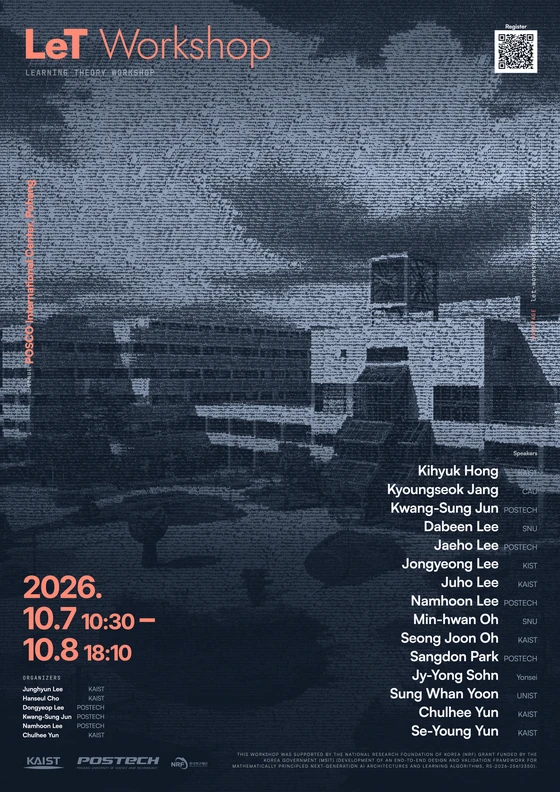
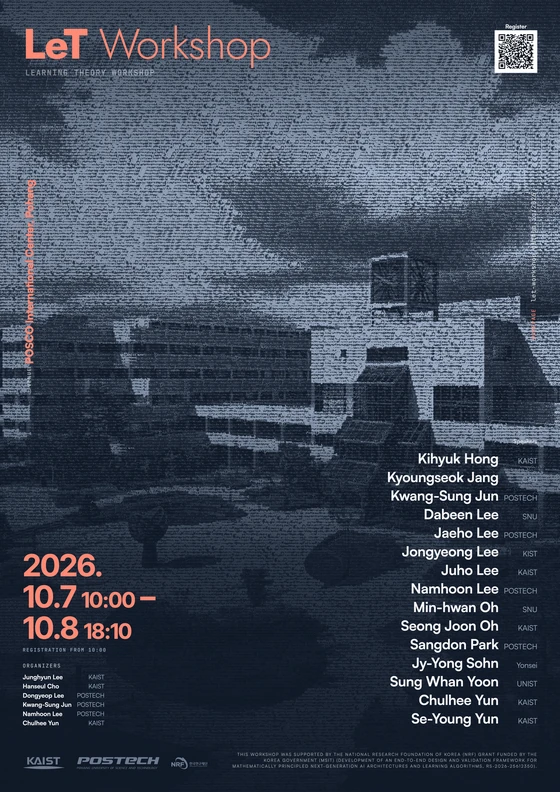
The registration button stops behaving like a dead one
Wrapping the live link in the waiting button's box gave it both of that box's
apologies: a not-allowed cursor over a link that works, and a width stretched
to whatever the note underneath happened to say — "Registration" came out as
wide as "Open until August 31" and read as a different, longer button.

It has a box of its own now. Same column, same note, but the button keeps its
own width and its own cursor: 100px against See speakers' 101, which is what it
was before the note existed. And the note is "Until August 31", which is what
the button needed it to be either way.

Changed region(s): [[0.6982, 0.5455, 0.9714, 0.9394], [0.0304, 0.697, 0.2732, 0.9394]]

diff --git a/templates/style.css b/templates/style.css
@@ -1005,10 +1005,20 @@ body {
 /* Registration has nowhere to go yet. Disabled rather than hidden, so the
    thing people are looking for is visibly coming — with the reason next to it,
    since a dead button with no explanation reads as broken. */
-.btn-wait {
+.btn-wait,
+.btn-note {
   display: inline-flex;
   flex-direction: column;
   gap: 6px;
+}
+/* The live one: the button keeps its own width. Stretched to the note's, as a
+   column flex child is by default, "Registration" came out as wide as "Until
+   August 31" and read as a different, longer button. */
+.btn-note {
+  align-items: flex-start;
+}
+.btn-note small {
+  padding-left: 2px;
 }
 /* Barely dimmed. A filled pill dropped much below this stops reading as coral
    at all — the accent sinks into the navy behind it and goes grey-brown — so
@@ -1029,7 +1039,8 @@ body {
   background: var(--hero-accent);
   color: #24160f;
 }
-.btn-wait small {
+.btn-wait small,
+.btn-note small {
   font-family: var(--mono);
   font-size: 0.64rem;
   letter-spacing: 0.14em;
@@ -1039,7 +1050,8 @@ body {
   /* The tracking is for a line of Latin capitals. Hangul is already spaced by
      its own squares, and at 0.14em "8월 31일까지" comes apart into syllables. */
 }
-.btn-wait small .t-ko {
+.btn-wait small .t-ko,
+.btn-note small .t-ko {
   letter-spacing: 0.01em;
 }
 
@@ -3848,11 +3860,17 @@ a.poster-shot:focus-visible {
     --meta-fact-weight: 700;
     --meta-mono-weight: 500;
     --meta-note-weight: 500;
-    /* Orange, not red. #c93a1c sits at hue 10 with the lightness a light
-     ground needs, and at that hue the darkness reads as blood rather than
-     as the coral the dark sheet uses. Walking the hue to 18 at the same
-     lightness keeps 3.5:1 against the pale blue and reads warm. */
-  --hero-accent: #c9501c;
+    /* The light sheet's accent, exactly. This was #c9501c — hue 18, walked
+       there because at hue 10 a colour this dark was reading as blood rather
+       than as the coral the dark sheet uses. That judgement was made when the
+       hero was the only pale thing on the page. The poster section now shows
+       the light sheet directly under it, and two oranges nine degrees apart at
+       the same lightness, seen together, read as a mismatch rather than as a
+       palette. So the page follows the sheet: hue 9.3, the dark sheet's own,
+       with the saturation up and the value down. It costs 3.46:1 against the
+       pale blue for 3.25:1, which is still over the 3:1 the large type it sets
+       is held to. See SCHEMES["light"] in tools/poster.py. */
+  --hero-accent: #db472c;
     --hero-art-ink: #16324f;
     --logo-plate: rgba(255, 255, 255, 0.78);
     --logo-plate: rgba(255, 255, 255, 0.78);
@@ -3942,11 +3960,12 @@ a.poster-shot:focus-visible {
   --meta-fact-weight: 700;
   --meta-mono-weight: 500;
   --meta-note-weight: 500;
-  /* Orange, not red. #c93a1c sits at hue 10 with the lightness a light
-     ground needs, and at that hue the darkness reads as blood rather than
-     as the coral the dark sheet uses. Walking the hue to 18 at the same
-     lightness keeps 3.5:1 against the pale blue and reads warm. */
-  --hero-accent: #c9501c;
+  /* The light sheet's accent — see the note on the same variable in the
+     prefers-color-scheme: light block. Both copies or neither: this one is
+     what the explicit toggle uses and that one is what Auto uses, and a
+     value changed in one of them is a page that turns a different colour
+     depending on how it was asked to. */
+  --hero-accent: #db472c;
   --hero-art-ink: #16324f;
   --logo-plate: rgba(255, 255, 255, 0.78);
   /* The same plate the drawing is filled with, not a second toning

diff --git a/tools/poster.py b/tools/poster.py
@@ -953,6 +953,17 @@ FESTIVAL = """<!doctype html>
     font-family:inherit; font-size:16mm; font-weight:700;
     letter-spacing:-.03em; color:inherit; margin-left:4mm;
   }}
+  /* What the first hour in the stack is. The stack gives a span — 10:00 to
+     18:10 across two days — and a span's opening figure reads as the edge of a
+     range rather than as an instruction to be somewhere. This says which it
+     is, in the mono the sheet names its fields with, so the number above it
+     stops being one end of a bracket. It comes from the programme's first
+     event, so it cannot drift from it. */
+  .opens {{
+    font-family:"JetBrains Mono",monospace; font-size:3.6mm; font-weight:500;
+    letter-spacing:.16em; text-transform:uppercase; color:{cool};
+    margin:2.5mm 0 0;
+  }}
   /* The venue lives in the rail; the country is the one thing neither the rail
      nor the stack says, so it goes with the day. */
   .datesub {{ display:none; }}
@@ -973,8 +984,13 @@ FESTIVAL = """<!doctype html>
   .r {{ text-align:right; }}
   .marks {{ display:flex; align-items:flex-end; gap:9mm; }}
   .marks img {{ height:9mm; width:auto; display:block; opacity:.72; }}
+  /* The marks and the grant sit under both columns, and 9mm under a list set
+     at 5.2mm/1.42 is barely more than one of its own lines — the row read as
+     the last entry of the organisers' column rather than as the sheet's foot.
+     18mm is a gap that belongs to neither, which is what it is for. The row
+     itself is unchanged: this is space above it, not a bigger foot. */
   .foot {{
-    display:flex; justify-content:space-between; align-items:flex-end; margin-top:9mm; gap:10mm;
+    display:flex; justify-content:space-between; align-items:flex-end; margin-top:18mm; gap:10mm;
     font-family:"JetBrains Mono",monospace; font-size:3.8mm; letter-spacing:.14em;
     text-transform:uppercase; color:{cool};
   }}
@@ -1032,6 +1048,7 @@ FESTIVAL = """<!doctype html>
       <div class="dates">
         <div class="side">
           <div class="stack">{yyyy}.<br>{md1}<small>{hour1}</small> –<br>{md2}<small>{hour2}</small></div>
+          <p class="opens">{opens}</p>
           <h4>Organizers</h4>
           <div class="orgs">{organisers}</div>
         </div>
@@ -2285,6 +2302,18 @@ def main(art_path, out_path, layout="stack", photo=None, cutout=None, duotone=No
                 return e["start"]
         return ""
 
+    def _first_title(prog):
+        """What the first hour of the first day actually is.
+
+        "Registration & Welcome Coffee" is the programme's own wording and is
+        too long for the sheet; what matters is the first word of it, which is
+        the thing a reader is being told to turn up for.
+        """
+        for e in prog["days"][0]["events"]:
+            if e.get("start"):
+                return (e.get("title") or "Doors").split(" &")[0].split(" and")[0]
+        return "Doors"
+
     def _last(day):
         for e in reversed(day["events"]):
             if e.get("end"):
@@ -2420,6 +2449,10 @@ def main(art_path, out_path, layout="stack", photo=None, cutout=None, duotone=No
         yyyy=esc(str(program["days"][0]["date"]).split("-")[0]),
         mon3=month[:3].upper(),
         hour1=hour1,
+        # Named from the programme rather than typed: the first event on day one
+        # is "Registration & Welcome Coffee" at 10:00, and if that moves the
+        # sheet moves with it.
+        opens=esc(f"{_first_title(program)} from {hour1}"),
         hour2=hour2,
         md1=".".join(str(program["days"][0]["date"]).split("-")[1:]).lstrip("0").replace(".0", "."),
         md2=".".join(str(program["days"][-1]["date"]).split("-")[1:]).lstrip("0").replace(".0", "."),
